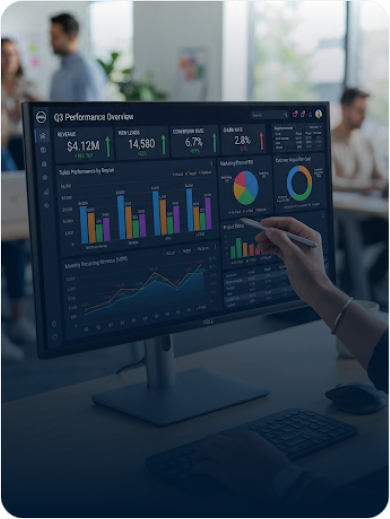
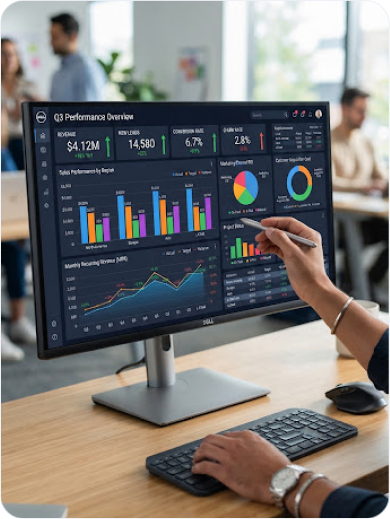
Update Why MKraft section header and 4 card titles and descriptions with exact copy text

diff --git a/src/NewRedesignedApplication/CorporateConsulting/WhyMKraft.jsx b/src/NewRedesignedApplication/CorporateConsulting/WhyMKraft.jsx
@@ -7,15 +7,15 @@ export default function WhyMKraft() {
     {
       step: "01",
       badge: "BESPOKE",
-      title: "Designed around your business",
-      description: "Every engagement begins with understanding your organization, not adapting you to a predefined program.",
+      title: "Built around your business, not our binder.",
+      description: "No predefined program. No borrowed playbook. Every engagement starts with your organisation as it actually is — and is designed for nothing else.",
       icon: <Users className="w-6 h-6 text-[#0284c7]" />
     },
     {
       step: "03",
-      badge: "TECHNOLOGY-ENABLED",
-      title: "Capability reinforced by technology",
-      description: "Our consulting is strengthened by digital platforms that sustain learning and track progress long after implementation.",
+      badge: "TECHNOLOGY ENABLED",
+      title: "Capability that doesn't fade when the workshop ends.",
+      description: "Our digital platforms keep the learning alive, track progress in real time, and hold the change in place long after the last session.",
       icon: <Cpu className="w-6 h-6 text-[#0284c7]" />
     }
   ];
@@ -23,16 +23,16 @@ export default function WhyMKraft() {
   const cardsRight = [
     {
       step: "02",
-      badge: "RESEARCH-BACKED",
-      title: "Evidence before intervention",
-      description: "We diagnose before we design, using proven assessments and data to build targeted capability solutions.",
+      badge: "RESEARCH BACKED",
+      title: "Diagnosis before design. Always.",
+      description: "Prescription without diagnosis is malpractice — in medicine and in consulting. We use validated assessments and hard data to find the cause before we touch the cure.",
       icon: <Search className="w-6 h-6 text-[#0284c7]" />
     },
     {
       step: "04",
-      badge: "OUTCOME-FOCUSED",
-      title: "Measured by business performance",
-      description: "Success is not measured by attendance. It is measured by improved leadership, stronger teams, and better organizational outcomes.",
+      badge: "OUTCOME FOCUSED",
+      title: "We are measured by your performance, not our presence.",
+      description: "Success isn't a feedback form. It's stronger leaders, tighter teams, and business outcomes you can point to a year later.",
       icon: <Target className="w-6 h-6 text-[#0284c7]" />
     }
   ];
@@ -67,7 +67,7 @@ export default function WhyMKraft() {
 
           <p className="text-lg md:text-xl text-slate-600 max-w-3xl mx-auto font-normal leading-relaxed pt-1">
             Most consulting hands you a deck. <br className="hidden sm:inline" />
-            We hand you difference that outlives the engagement.
+            We hand you a difference that outlives the engagement.
           </p>
         </header>
 
@@ -138,10 +138,11 @@ export default function WhyMKraft() {
             {/* Central White Card Hub */}
             <div className="w-64 h-64 sm:w-72 sm:h-72 rounded-full bg-white shadow-2xl border-4 border-sky-100 flex flex-col items-center justify-center text-center p-6 relative z-20 hover:scale-105 transition-transform duration-300">
               <h3 className="font-poppins font-extrabold text-3xl text-[#01182F] tracking-tight">
-                MKraft <span className="text-[#0284c7]"></span>
+                Why <span className="text-[#0284c7]">MKraft</span>
               </h3>
-              <p className="text-slate-500 text-xs sm:text-sm font-medium pt-2 max-w-[170px] leading-relaxed">
-                Difference that outlives the engagement.
+              <div className="w-8 h-1 bg-[#0284c7] rounded-full my-2.5" />
+              <p className="text-xs text-slate-500 max-w-[180px] leading-normal font-medium">
+                Four core principles driving capability that outlives the engagement.
               </p>
             </div>
 
@@ -154,12 +155,12 @@ export default function WhyMKraft() {
                 key={idx}
                 className="bg-white rounded-3xl p-6 sm:p-8 shadow-lg shadow-sky-100/50 border border-sky-100/80 relative hover:shadow-xl hover:border-sky-300 transition-all duration-300 group"
               >
-                {/* Step Ribbon Badge (Right Side) */}
-                <div className="absolute -right-3 top-6 bg-[#0284c7] text-white font-mono font-extrabold text-sm px-3.5 py-1 rounded-l-xl shadow-md flex items-center justify-center">
+                {/* Step Ribbon Badge (Left Side) */}
+                <div className="absolute -left-3 top-6 bg-[#0284c7] text-white font-mono font-extrabold text-sm px-3.5 py-1 rounded-r-xl shadow-md flex items-center justify-center">
                   {card.step}
                 </div>
 
-                <div className="pr-4">
+                <div className="pl-4">
                   {/* Top Icon Circle */}
                   <div className="w-12 h-12 bg-sky-50 border border-sky-100 rounded-full flex items-center justify-center mb-5 text-[#0284c7] group-hover:scale-110 transition-transform duration-300">
                     {card.icon}
@@ -174,7 +175,7 @@ export default function WhyMKraft() {
                     {card.title}
                   </h3>
 
-                  <p className="text-slate-600 text-xs sm:text-sm leading-relaxed font-normal">
+                  <p className="text-slate-600 text-base leading-relaxed font-normal">
                     {card.description}
                   </p>
                 </div>
@@ -185,6 +186,7 @@ export default function WhyMKraft() {
         </div>
 
       </div>
+
     </section>
   );
 }
